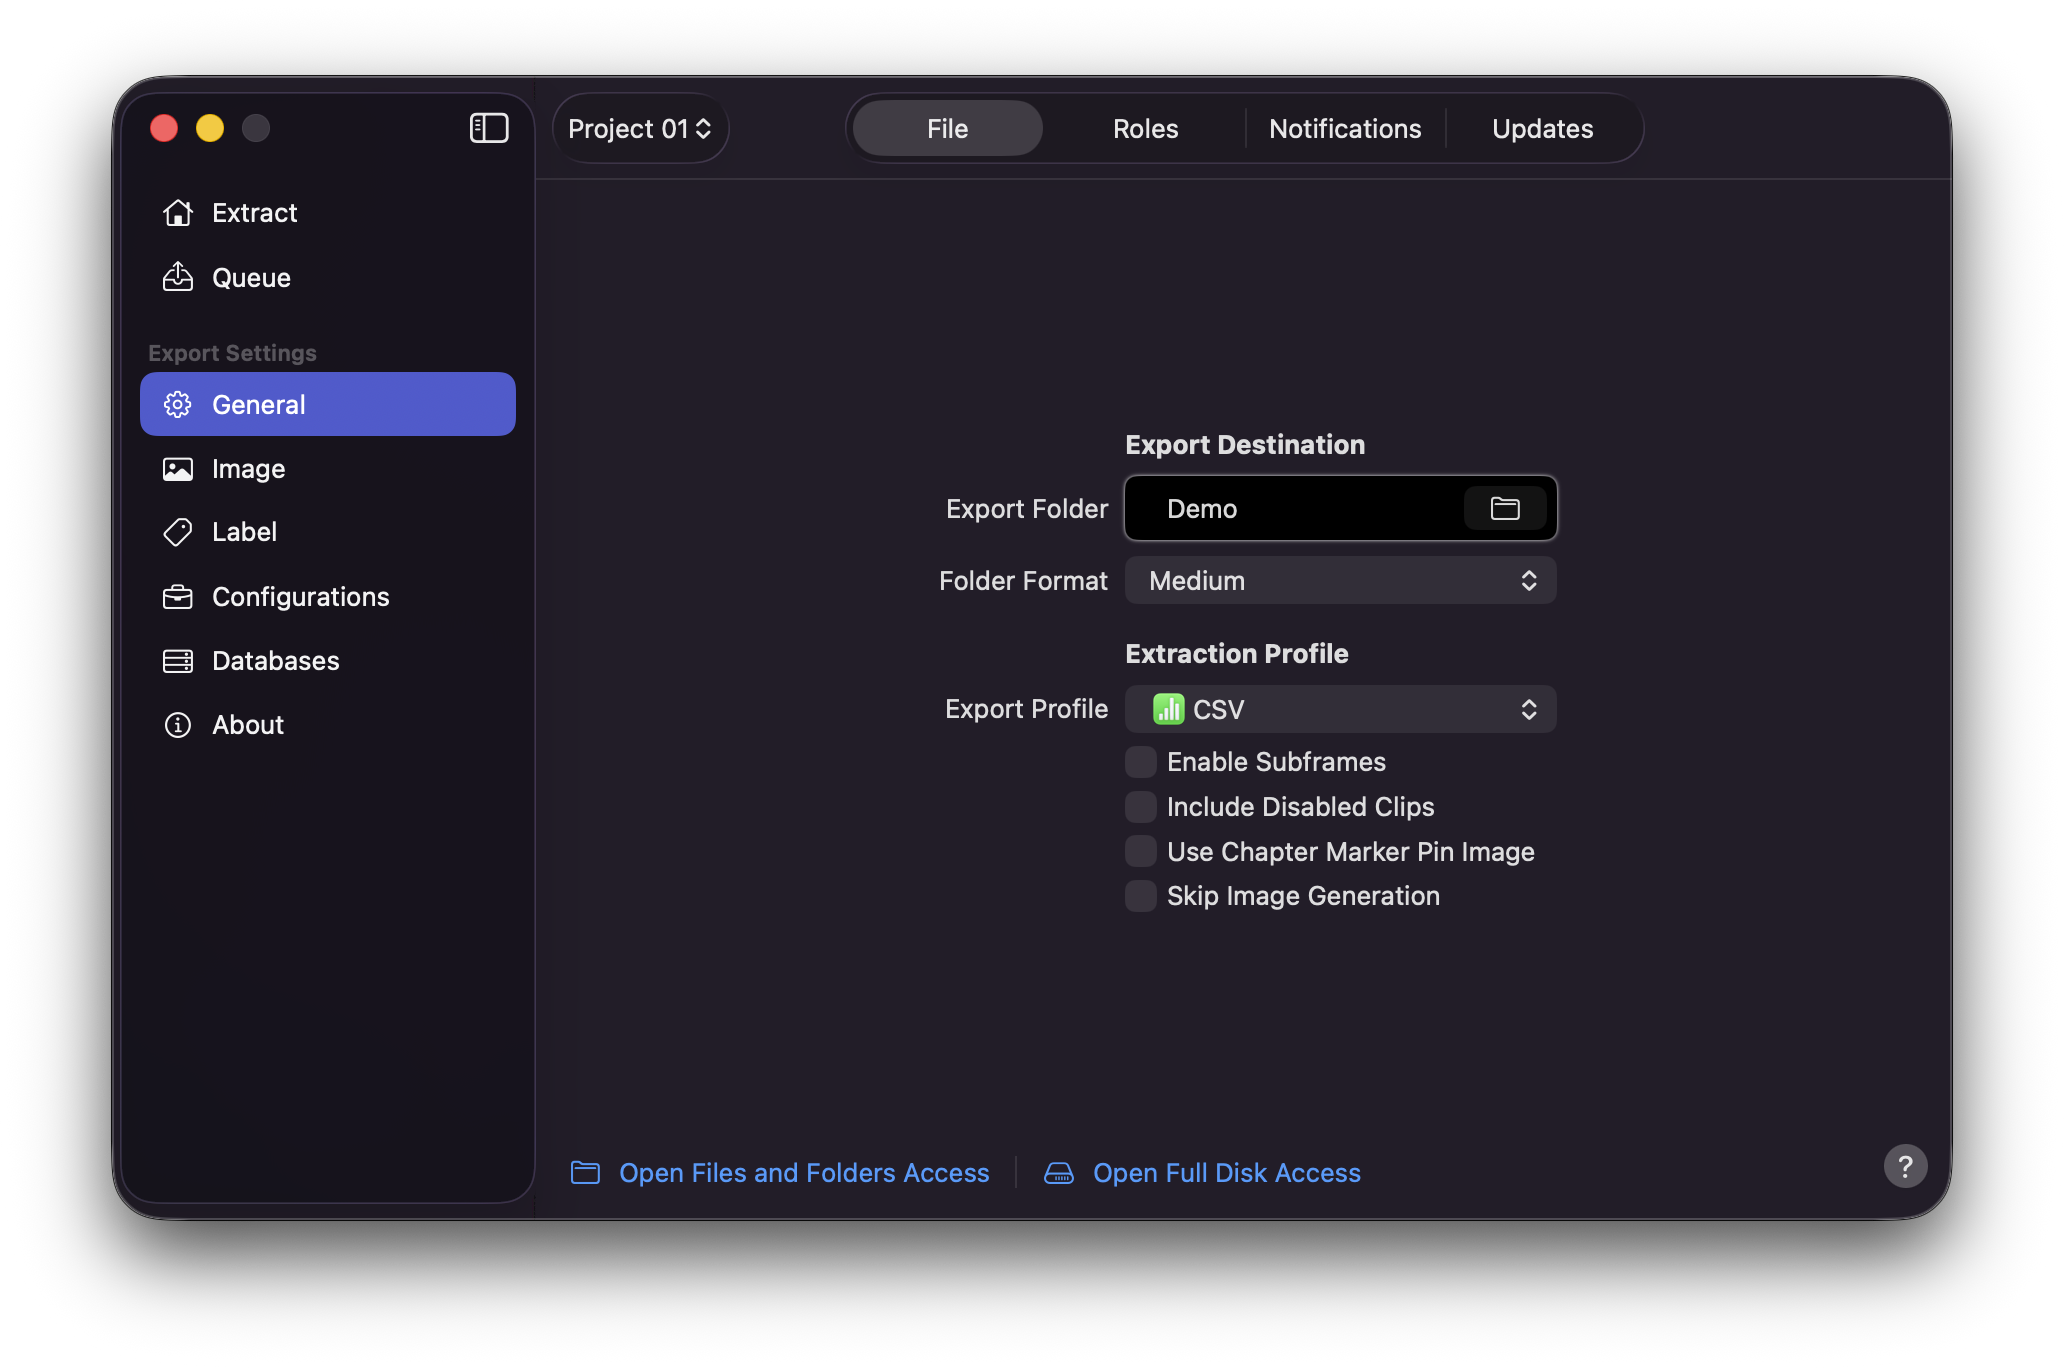
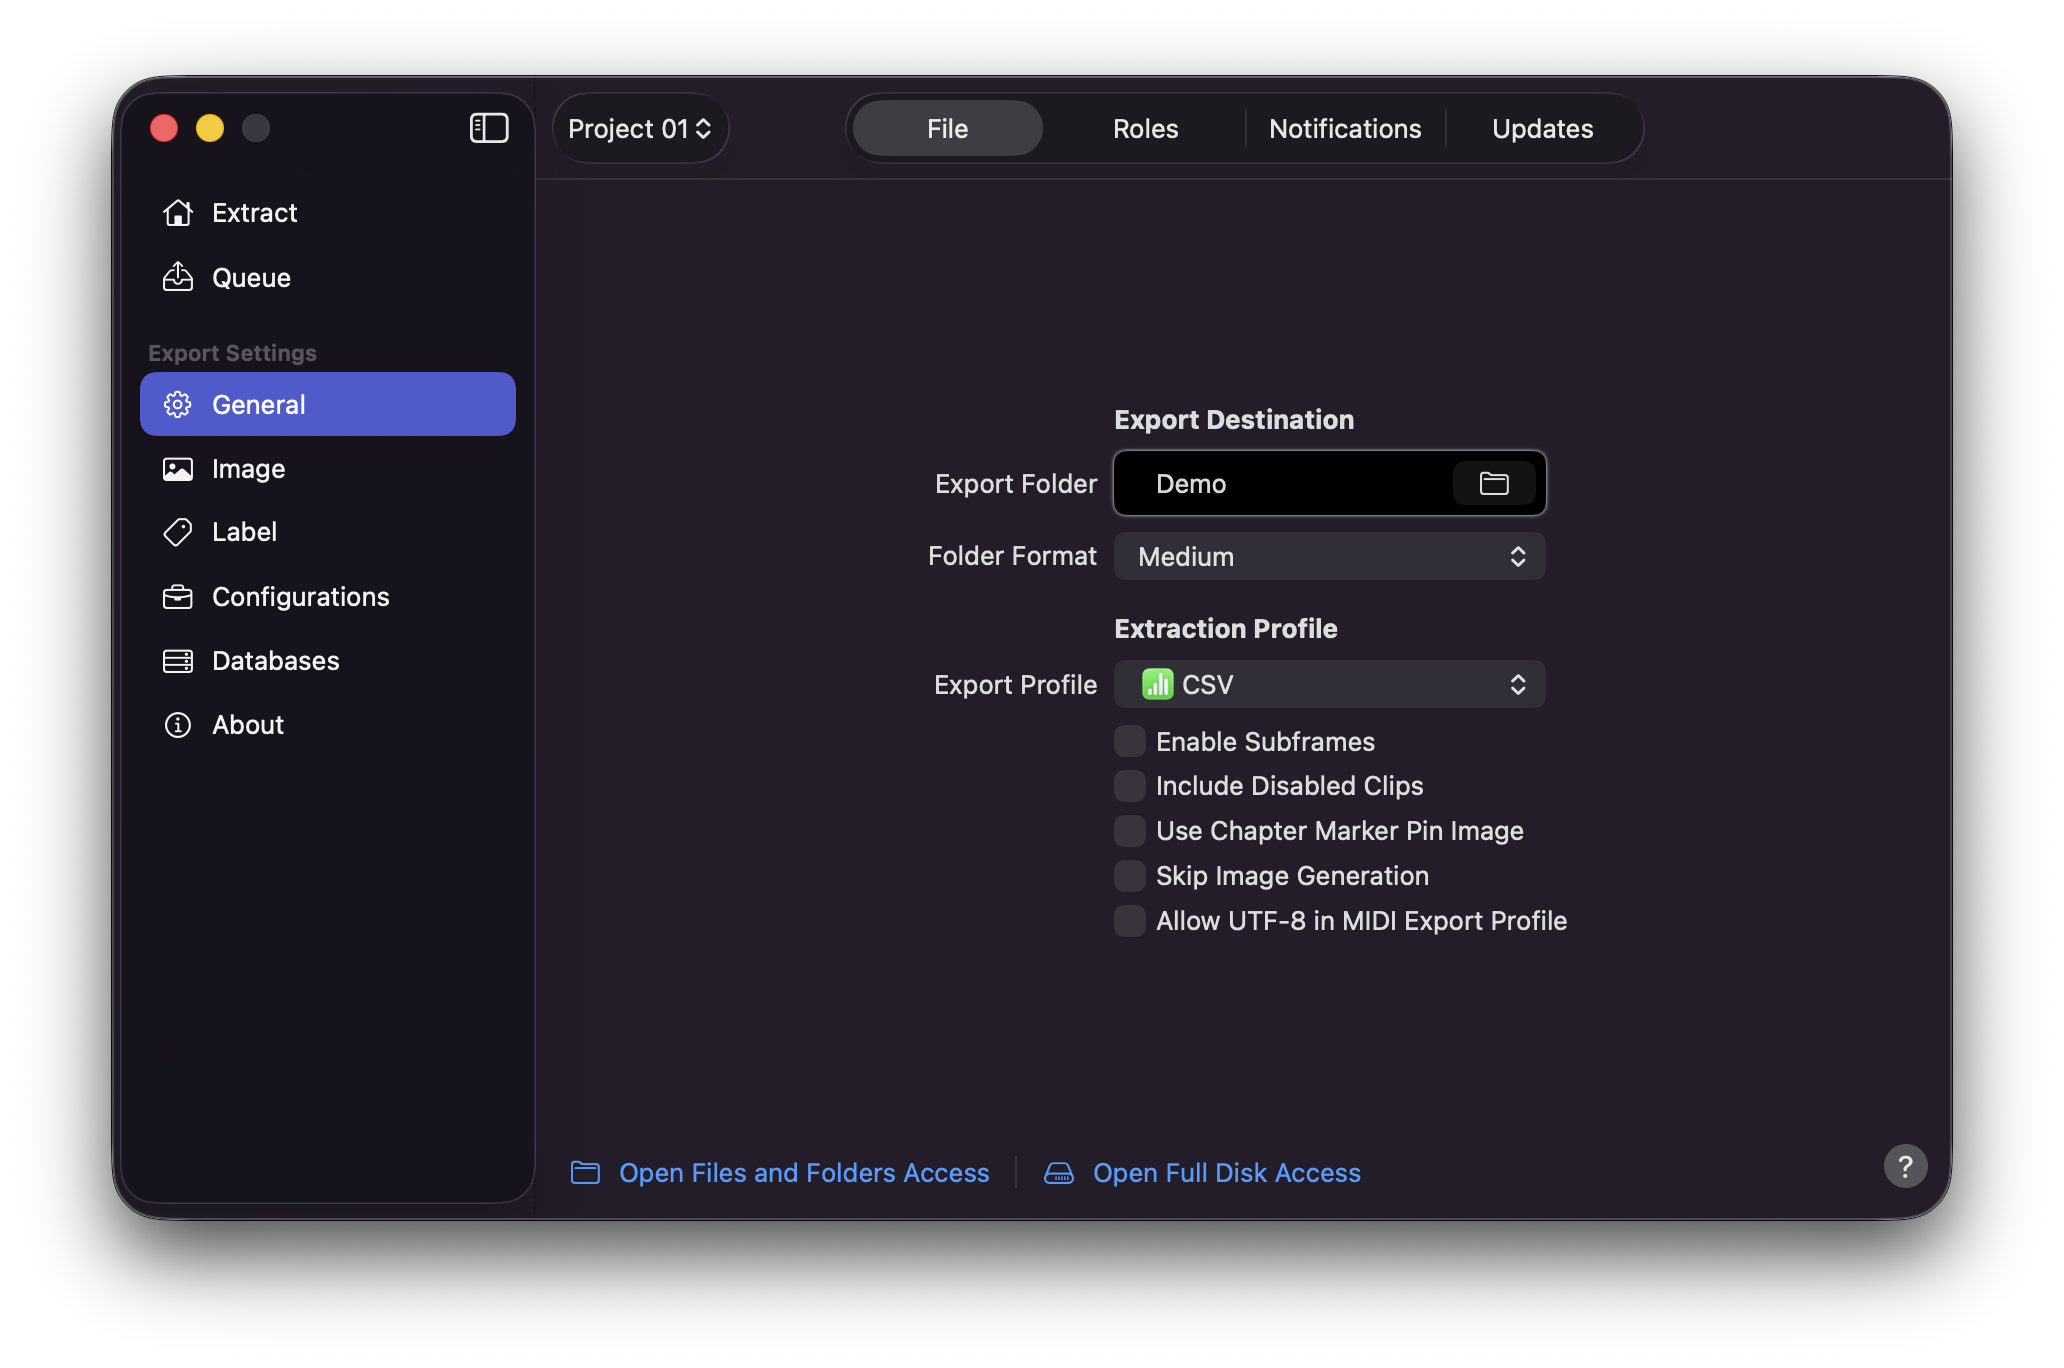
Update

Changed region(s): [[0.4341, 0.2763, 0.7752, 0.6754]]

diff --git a/docs/User Guide/General.md b/docs/User Guide/General.md
@@ -91,12 +91,16 @@ In both states, chapter markers's timecode would be identical on both image labe
 
 ### Skip Image Generation
 
-By [!badge text="Default"] Marker Data will always look for accompanying movie file (`.mov` or `.mp4`) in directory where the `.fcpxmld` or `.fcpxml` resides. Activating the Skip Image Generation option allows **Marker Data** to circumvent the inclusion of the movie file during processing.
+By [!badge text="Default"] **Marker Data** will always look for accompanying movie file (`.mov` or `.mp4`) in directory where the `.fcpxmld` or `.fcpxml` resides. Activating the `Skip Image Generation` option allows **Marker Data** to circumvent the inclusion of the movie file during processing.
 
 This option is applicable in situations wherein:
 
 - You do not require exporting a movie file.
 - You do not require extraction of images.
+
+### Allow UTF-8 in MIDI Export Profile
+
+By [!badge text="Default"], **Marker Data** will export MIDI file text events using strict ASCII encoding, in accordance with the Standard MIDI File 1.0 specification, ensuring the broadest possible compatibility with MIDI applications. Activating the `Allow UTF-8 in MIDI Export Profile` opts in to wider encoding support, mimicking Logic Pro's ability to use UTF-8 text in MIDI files. When this option is enabled, text that falls within standard ASCII remains fully backwards compatible, while any text that requires it will be encoded as UTF-8 automatically.
 
 ### Open Files and Folders Access
 